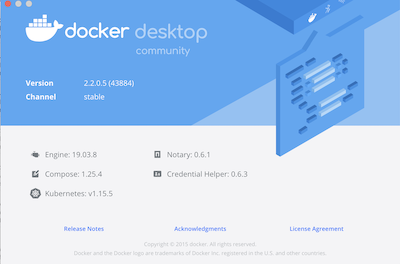
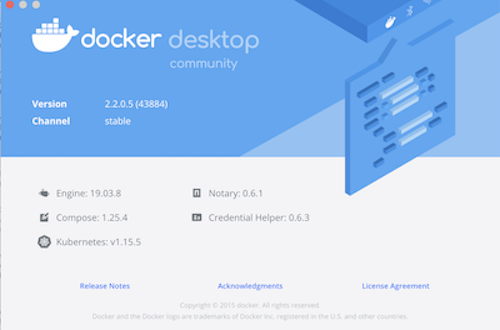
adjust formatting and resize image

diff --git a/README.md b/README.md
@@ -25,7 +25,8 @@ Learn how to configure and deploy a Hyperledger Fabric Certificate Authority on 
 - Mac OS Catalina 10.15.4
 - minikube version: v1.9.2
 - Docker version 19.03.8
-- ![Alt text](/assets/dockerdesktop.png?raw=true "Docker Desktop About")
+
+![Alt text](/assets/dockerdesktop.png?raw=true "Docker Desktop About")
 
 ### **Step 1:** Clone the repo and cd into the directory
 ```
